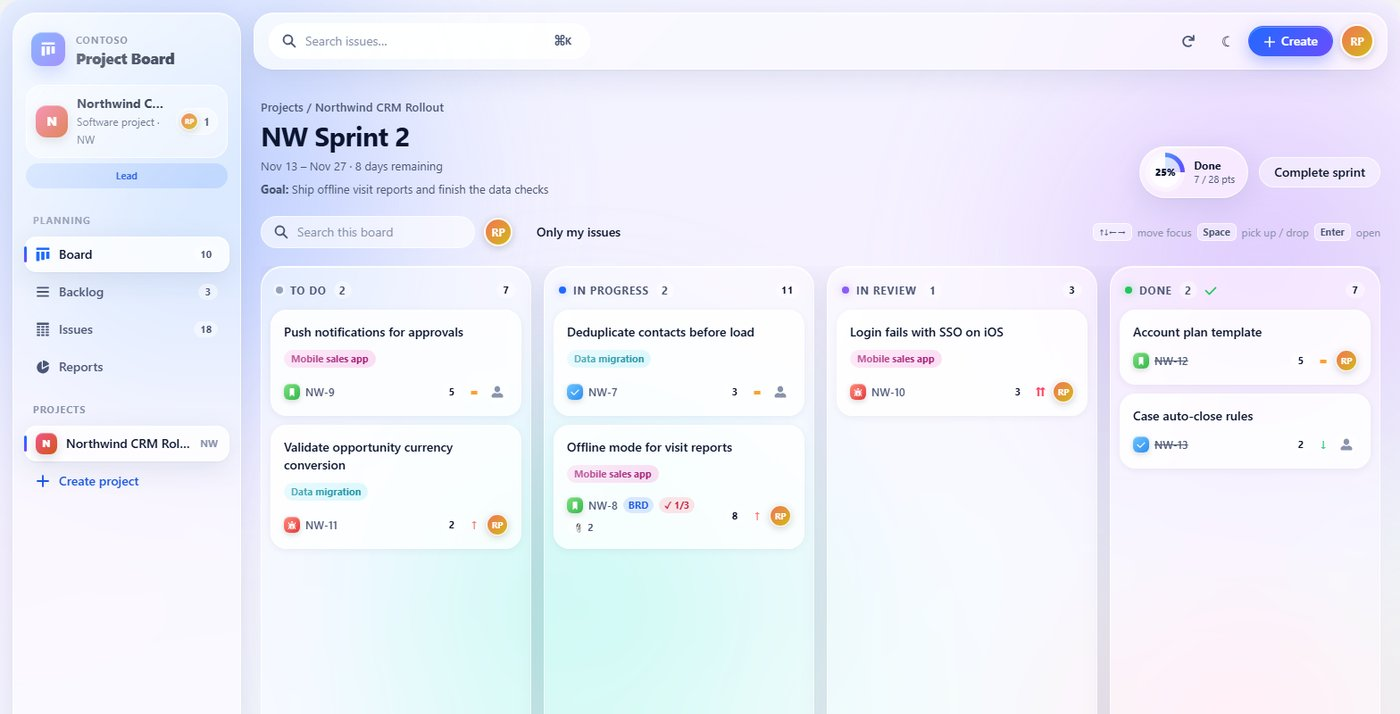
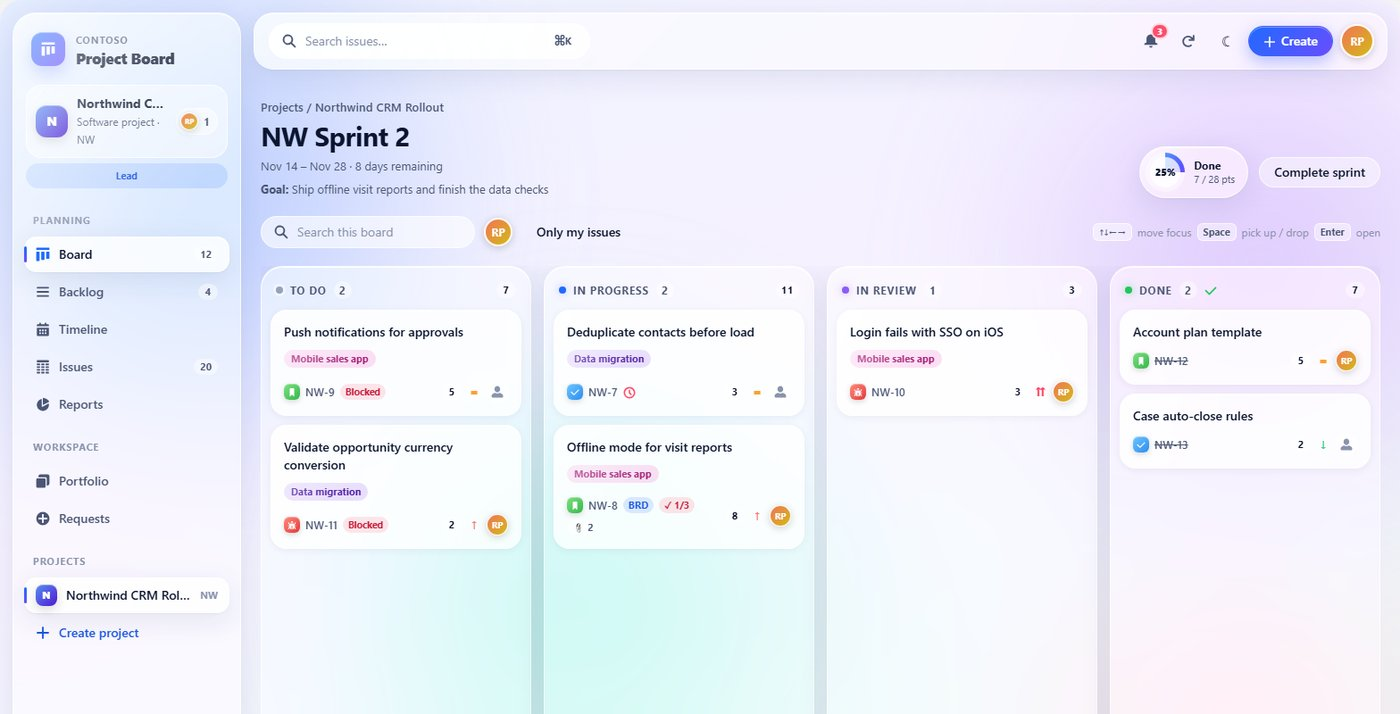
feat(portfolio): Project Board timeline and portfolio on the case study
Screenshots refreshed from the demo org (bell, Blocked and Request
badges); new timeline and portfolio images and a short paragraph on
notifications, dependencies, requests and the portfolio.

diff --git a/salesforce-project-board.html b/salesforce-project-board.html
@@ -1,2 +1,2 @@
 <!DOCTYPE html>
-<html lang="en"><head><meta charset="utf-8"/><meta content="width=device-width,initial-scale=1" name="viewport"/><meta content="#070e19" name="theme-color"/><meta content="Technical case study: Salesforce Project Board by Ricardo Pinheiro. A Scrum-style board built on Salesforce with project membership, a recorded BRD sign-off workflow, UAT test scripts, sprint reports, keyboard-accessible drag and drop and PDF / Word exports, in Apex, Lightning Web Components and Visualforce." name="description"/><meta content="index,follow" name="robots"/><link href="https://ricardo19-deve.github.io/salesforce-project-board.html" rel="canonical"/><meta content="Salesforce Project Board — Engineering Case Study | Ricardo Pinheiro" property="og:title"/><meta content="Scrum board, BRD, UAT test scripts and sprint reports built on Salesforce with Apex, LWC and Visualforce exports." property="og:description"/><meta content="article" property="og:type"/><meta content="https://ricardo19-deve.github.io/salesforce-project-board.html" property="og:url"/><meta content="https://ricardo19-deve.github.io/portrait.jpg" property="og:image"/><title>Salesforce Project Board — Engineering Case Study | Ricardo Pinheiro</title><link href="case-study.css" rel="stylesheet"/></head><body><div aria-hidden="true" class="scrollbar"></div><header class="top wrap"><a class="brand" href="index.html#projects">RP<span>.</span></a><nav aria-label="Page navigation" class="topnav"><a href="index.html#projects">← All projects</a><a href="index.html#certifications">Certifications</a><a href="index.html#contact">Connect</a></nav></header><main class="wrap"><section class="hero fade"><div class="eyebrow">ENGINEERING CASE STUDY / 02</div><h1>Salesforce Project Board<span class="gradient">.</span></h1><p class="lead">From requirement to release, inside Salesforce.</p><div class="status">Open-source module · Apex · Lightning Web Components · Visualforce · Experience Cloud</div></section><section aria-label="Project context" class="two fade"><div class="glass panel"><div class="small-label">THE CONTEXT</div><h2>What I set out to solve.</h2><p>Teams that deliver Salesforce changes often keep requirements in documents, tests in spreadsheets and the backlog in another tool. The links between a requirement, its test evidence and the sprint it shipped in get lost. This module brings them together on the platform the team already works in, published as a neutral open-source reference.</p></div><div class="glass panel"><div class="small-label">THE ENGINEERING QUESTION</div><h2>One place, every artefact linked.</h2><p>How can a team plan sprints, write the business requirements, run user acceptance tests and present what was delivered without leaving Salesforce, with every document traceable to the issue it belongs to?</p></div></section><section aria-label="Interactive architecture" class="architecture fade"><div class="section-heading"><div><div class="small-label">EXPLORE THE SYSTEM</div><h2 class="section-title">Architecture, <span class="gradient">layer by layer.</span></h2></div><p>Select a component to understand its responsibility. Simplified reference architecture, not a production infrastructure diagram.</p></div><div class="arch-layout"><div class="glass arch-map"><div class="arch-step"><span class="step-number">01</span><button aria-pressed="true" class="node active" data-detail="Lightning Web Components render the board, backlog, issue list, reports and the issue workspace. One design system with light and dark themes runs unchanged in a Lightning tab and in a full-screen Experience Cloud (LWR) portal." data-title="Board UI" type="button"><b>Board UI</b><span>Lightning Web Components</span></button></div><div aria-hidden="true" class="connector"></div><div class="arch-step"><span class="step-number">02</span><button aria-pressed="false" class="node" data-detail="Projects and their members, sprints, issues, comments, BRDs with their sign-offs, requirements and test cases. Issue keys come from a locked counter, ranks are fractional so a drag &amp; drop updates one record, and sprint snapshots keep committed versus delivered accurate after carry-over." data-title="Data model" type="button"><b>Data model</b><span>Nine custom objects</span></button></div><div aria-hidden="true" class="connector"></div><div class="arch-step"><span class="step-number">03</span><button aria-pressed="false" class="node" data-detail="Projects and BRDs are private: Apex managed sharing gives each project member access by role (Lead, Member, Viewer). Controllers run every query and write in user mode and check the role first; one small system class handles the shares and recorded sign-off decisions. Updates sent by the browser pass a per-object field whitelist." data-title="Apex services" type="button"><b>Apex services</b><span>Membership · user mode</span></button></div><div aria-hidden="true" class="connector"></div><div class="arch-step"><span class="step-number">04</span><button aria-pressed="false" class="node" data-detail="Visualforce pages render the BRD, the test scripts and the sprint report as PDF or as an editable Word document. The figures match the Reports view, so what is presented is what the board shows." data-title="Document exports" type="button"><b>Document exports</b><span>Visualforce · PDF and Word</span></button></div></div><div aria-live="polite" class="glass panel detail"><div class="number" id="detail-num">LAYER 01 / 04</div><h3 id="detail-title">Board UI</h3><p id="detail-body">Lightning Web Components render the board, backlog, issue list, reports and the issue workspace. One design system with light and dark themes runs unchanged in a Lightning tab and in a full-screen Experience Cloud (LWR) portal.</p><div class="hint">↖ Select any architecture layer to explore</div></div></div></section><section aria-label="Planning and documentation" class="two fade"><div class="glass panel"><div class="small-label">PLANNING</div><h2>Board, backlog, sprints.</h2><p>A Kanban board of the active sprint with drag &amp; drop, quick filters and a progress ring. A backlog with sprint sections, an epics panel and inline quick create; completing a sprint moves open work to the backlog or the next sprint.</p><p>Every issue opens into a workspace with inline editing, comments, field history and tabs for its documents.</p></div><div class="glass panel"><div class="small-label">DOCUMENTATION</div><h2>Requirements that become tests.</h2><p>Each issue can carry a Business Requirements Document with solution design: impacted users and systems, numbered requirements with acceptance criteria, solution screenshots and a recorded sign-off.</p><p>UAT test scripts hold steps, expected and actual results, Pass / Fail / Blocked and evidence files. One click generates a test case for every acceptance criterion of the BRD, without AI.</p></div></section><section aria-label="Reports and design" class="two fade"><div class="glass panel"><div class="small-label">REPORTS &amp; EXPORTS</div><h2>Ready to present.</h2><p>A velocity chart compares committed and delivered points per sprint, and each sprint card shows completion, bugs fixed, carry-over and test pass rate.</p><p>The BRD, the test scripts and the sprint report export to PDF for presenting and to Word for editing, with the company name and logo configurable without code.</p></div><div class="glass panel"><div class="small-label">DESIGN SYSTEM</div><h2>Liquid glass, light and dark.</h2><p>Translucent surfaces, an animated background and spring-based motion, defined once as design tokens and inherited by every component. Motion is reduced automatically when the operating system asks for it.</p><p>The same components render in Lightning Experience and in an Experience Cloud (LWR) site. The chart colours were checked for colour-blind separation and contrast in both themes.</p></div></section><section aria-label="Access, sign-off and accessibility" class="two fade"><div class="glass panel"><div class="small-label">ACCESS &amp; GOVERNANCE</div><h2>Only members see a project.</h2><p>Projects are private. Each one has its own members: Leads manage members and plan, Members edit and can be assignees, Viewers read and export. Access is granted through Apex managed sharing that follows the member list, so removing a person removes their access.</p><p>BRD sign-off is a recorded decision, not typed text. Each role has a named approver who approves, or requests changes with a comment, under their own login. The document is locked while it is out for approval, approvers get a notification, and reopening an approved BRD starts a new version.</p></div><div class="glass panel"><div class="small-label">ACCESSIBILITY</div><h2>Drag and drop, without a mouse.</h2><p>Every card and backlog row can be moved from the keyboard: Space picks it up, the arrow keys carry it, Space drops it and Escape cancels. One tab stop per list keeps navigation short, and each move is announced to screen readers.</p><p>Dialogs keep the focus inside while they are open and return it to the card when they close. The keyboard flow was checked in a real org with automated browser tests.</p></div></section><section aria-label="Screenshots" class="fade"><div class="small-label">SEE IT RUNNING</div><h2>Captured in a Developer Edition org.</h2><p class="shots-note">Fictitious demo data created by the seed script in the repository. Select an image to open it full size.</p><div class="shots"><figure class="shot"><a href="assets/salesforce-project-board/board.jpg" target="_blank" rel="noopener"><img alt="Board of the active sprint with drag &amp; drop, progress ring and BRD, test and file badges" decoding="async" loading="lazy" src="assets/salesforce-project-board/board.jpg"/></a><figcaption>Board: active sprint, progress ring, document badges</figcaption></figure><figure class="shot"><a href="assets/salesforce-project-board/board-dark.jpg" target="_blank" rel="noopener"><img alt="The same board in dark mode" decoding="async" loading="lazy" src="assets/salesforce-project-board/board-dark.jpg"/></a><figcaption>The same board in dark mode</figcaption></figure><figure class="shot"><a href="assets/salesforce-project-board/backlog.jpg" target="_blank" rel="noopener"><img alt="Backlog with sprint sections and an epics panel" decoding="async" loading="lazy" src="assets/salesforce-project-board/backlog.jpg"/></a><figcaption>Backlog: sprints and epics with progress</figcaption></figure><figure class="shot"><a href="assets/salesforce-project-board/keyboard-move.jpg" target="_blank" rel="noopener"><img alt="A card lifted with the keyboard, with the target column highlighted" decoding="async" loading="lazy" src="assets/salesforce-project-board/keyboard-move.jpg"/></a><figcaption>Keyboard move: Space lifts the card, arrows pick the column</figcaption></figure><figure class="shot"><a href="assets/salesforce-project-board/members.jpg" target="_blank" rel="noopener"><img alt="Project members dialog with Lead, Member and Viewer roles" decoding="async" loading="lazy" src="assets/salesforce-project-board/members.jpg"/></a><figcaption>Members and roles: only members see the project</figcaption></figure><figure class="shot"><a href="assets/salesforce-project-board/issue.jpg" target="_blank" rel="noopener"><img alt="Issue workspace with inline editing, comments and tabs for BRD, test scripts and attachments" decoding="async" loading="lazy" src="assets/salesforce-project-board/issue.jpg"/></a><figcaption>Issue workspace: inline editing, comments, document tabs</figcaption></figure><figure class="shot"><a href="assets/salesforce-project-board/brd.jpg" target="_blank" rel="noopener"><img alt="BRD out for approval with the status, the lock banner and the sign-offs waiting for the user" decoding="async" loading="lazy" src="assets/salesforce-project-board/brd.jpg"/></a><figcaption>BRD out for approval: status and lock</figcaption></figure><figure class="shot"><a href="assets/salesforce-project-board/sign-off.jpg" target="_blank" rel="noopener"><img alt="Sign-off rows: one approved with a comment, one pending with Approve and Request changes, one not required" decoding="async" loading="lazy" src="assets/salesforce-project-board/sign-off.jpg"/></a><figcaption>Sign-off: named approvers, recorded decisions</figcaption></figure><figure class="shot"><a href="assets/salesforce-project-board/test-scripts.jpg" target="_blank" rel="noopener"><img alt="Test scripts with steps and Pass, Fail and Blocked results" decoding="async" loading="lazy" src="assets/salesforce-project-board/test-scripts.jpg"/></a><figcaption>Test scripts generated from the BRD</figcaption></figure><figure class="shot"><a href="assets/salesforce-project-board/reports.jpg" target="_blank" rel="noopener"><img alt="Velocity chart of committed versus delivered points and sprint cards" decoding="async" loading="lazy" src="assets/salesforce-project-board/reports.jpg"/></a><figcaption>Reports: velocity and sprint cards</figcaption></figure><figure class="shot"><a href="assets/salesforce-project-board/sprint-report-pdf.jpg" target="_blank" rel="noopener"><img alt="Sprint report exported to PDF" decoding="async" loading="lazy" src="assets/salesforce-project-board/sprint-report-pdf.jpg"/></a><figcaption>Sprint report exported to PDF</figcaption></figure><figure class="shot"><a href="assets/salesforce-project-board/brd-pdf.jpg" target="_blank" rel="noopener"><img alt="BRD exported to PDF with the sign-off table of approvers, decisions and dates" decoding="async" loading="lazy" src="assets/salesforce-project-board/brd-pdf.jpg"/></a><figcaption>BRD PDF with the recorded sign-off</figcaption></figure></div></section><section class="fade"><div class="glass panel"><div class="small-label">ENGINEERING PRACTICES</div><h2>Built to be handed over.</h2><p>Apex tests that run as a user with only the module permission set, and access tests with separate Lead, Member and outsider users. Jest tests for the shared helpers, linting in continuous integration, header comments for future maintainers, a demo data script and documentation of the data model and configuration.</p></div><div class="small-label" style="margin-top:70px">TECHNICAL TOOLKIT</div><div class="tags"><span class="tag">Apex</span><span class="tag">Lightning Web Components</span><span class="tag">Visualforce PDF &amp; Word</span><span class="tag">SOQL user mode</span><span class="tag">Apex managed sharing</span><span class="tag">Custom notifications</span><span class="tag">Keyboard accessibility (ARIA)</span><span class="tag">Custom objects</span><span class="tag">Salesforce Files</span><span class="tag">Experience Cloud (LWR)</span><span class="tag">HTML5 drag &amp; drop</span><span class="tag">CSS design tokens</span><span class="tag">Apex tests</span><span class="tag">Jest</span></div><div class="glass panel"><div class="small-label">CURRENT STATE / NEXT EVIDENCE</div><h2>What the evidence supports.</h2><p>The module is published in the open-source Salesforce CRM Wizards repository and deploys to a Salesforce Developer Edition org. The screenshots above come from such an org with fictitious data.</p></div><div class="links"><a class="linkbtn" href="https://github.com/Ricardo19-Deve/salesforce-crm-wizards/blob/main/docs/project-board.md" rel="noopener noreferrer" target="_blank">View source on GitHub ↗</a><a class="linkbtn" href="https://www.linkedin.com/in/ricardoappinheiro/" rel="noopener noreferrer" target="_blank">Discuss this project ↗</a><a class="linkbtn" href="index.html#projects">Back to portfolio ↗</a></div></section></main><footer class="footer wrap"><span>Ricardo Pinheiro · Open-source engineering case study</span><span>Designed to be explored, not just read.</span></footer><script defer="" src="case-study.js"></script><script type="module" src="./m-analytics-bootstrap.mjs?v=34"></script></body></html>
+<html lang="en"><head><meta charset="utf-8"/><meta content="width=device-width,initial-scale=1" name="viewport"/><meta content="#070e19" name="theme-color"/><meta content="Technical case study: Salesforce Project Board by Ricardo Pinheiro. A Scrum-style board built on Salesforce with project membership, a recorded BRD sign-off workflow, UAT test scripts, sprint reports, keyboard-accessible drag and drop and PDF / Word exports, in Apex, Lightning Web Components and Visualforce." name="description"/><meta content="index,follow" name="robots"/><link href="https://ricardo19-deve.github.io/salesforce-project-board.html" rel="canonical"/><meta content="Salesforce Project Board — Engineering Case Study | Ricardo Pinheiro" property="og:title"/><meta content="Scrum board, BRD, UAT test scripts and sprint reports built on Salesforce with Apex, LWC and Visualforce exports." property="og:description"/><meta content="article" property="og:type"/><meta content="https://ricardo19-deve.github.io/salesforce-project-board.html" property="og:url"/><meta content="https://ricardo19-deve.github.io/portrait.jpg" property="og:image"/><title>Salesforce Project Board — Engineering Case Study | Ricardo Pinheiro</title><link href="case-study.css" rel="stylesheet"/></head><body><div aria-hidden="true" class="scrollbar"></div><header class="top wrap"><a class="brand" href="index.html#projects">RP<span>.</span></a><nav aria-label="Page navigation" class="topnav"><a href="index.html#projects">← All projects</a><a href="index.html#certifications">Certifications</a><a href="index.html#contact">Connect</a></nav></header><main class="wrap"><section class="hero fade"><div class="eyebrow">ENGINEERING CASE STUDY / 02</div><h1>Salesforce Project Board<span class="gradient">.</span></h1><p class="lead">From requirement to release, inside Salesforce.</p><div class="status">Open-source module · Apex · Lightning Web Components · Visualforce · Experience Cloud</div></section><section aria-label="Project context" class="two fade"><div class="glass panel"><div class="small-label">THE CONTEXT</div><h2>What I set out to solve.</h2><p>Teams that deliver Salesforce changes often keep requirements in documents, tests in spreadsheets and the backlog in another tool. The links between a requirement, its test evidence and the sprint it shipped in get lost. This module brings them together on the platform the team already works in, published as a neutral open-source reference.</p></div><div class="glass panel"><div class="small-label">THE ENGINEERING QUESTION</div><h2>One place, every artefact linked.</h2><p>How can a team plan sprints, write the business requirements, run user acceptance tests and present what was delivered without leaving Salesforce, with every document traceable to the issue it belongs to?</p></div></section><section aria-label="Interactive architecture" class="architecture fade"><div class="section-heading"><div><div class="small-label">EXPLORE THE SYSTEM</div><h2 class="section-title">Architecture, <span class="gradient">layer by layer.</span></h2></div><p>Select a component to understand its responsibility. Simplified reference architecture, not a production infrastructure diagram.</p></div><div class="arch-layout"><div class="glass arch-map"><div class="arch-step"><span class="step-number">01</span><button aria-pressed="true" class="node active" data-detail="Lightning Web Components render the board, backlog, issue list, reports and the issue workspace. One design system with light and dark themes runs unchanged in a Lightning tab and in a full-screen Experience Cloud (LWR) portal." data-title="Board UI" type="button"><b>Board UI</b><span>Lightning Web Components</span></button></div><div aria-hidden="true" class="connector"></div><div class="arch-step"><span class="step-number">02</span><button aria-pressed="false" class="node" data-detail="Projects and their members, sprints, issues, comments, BRDs with their sign-offs, requirements and test cases. Issue keys come from a locked counter, ranks are fractional so a drag &amp; drop updates one record, and sprint snapshots keep committed versus delivered accurate after carry-over." data-title="Data model" type="button"><b>Data model</b><span>Nine custom objects</span></button></div><div aria-hidden="true" class="connector"></div><div class="arch-step"><span class="step-number">03</span><button aria-pressed="false" class="node" data-detail="Projects and BRDs are private: Apex managed sharing gives each project member access by role (Lead, Member, Viewer). Controllers run every query and write in user mode and check the role first; one small system class handles the shares and recorded sign-off decisions. Updates sent by the browser pass a per-object field whitelist." data-title="Apex services" type="button"><b>Apex services</b><span>Membership · user mode</span></button></div><div aria-hidden="true" class="connector"></div><div class="arch-step"><span class="step-number">04</span><button aria-pressed="false" class="node" data-detail="Visualforce pages render the BRD, the test scripts and the sprint report as PDF or as an editable Word document. The figures match the Reports view, so what is presented is what the board shows." data-title="Document exports" type="button"><b>Document exports</b><span>Visualforce · PDF and Word</span></button></div></div><div aria-live="polite" class="glass panel detail"><div class="number" id="detail-num">LAYER 01 / 04</div><h3 id="detail-title">Board UI</h3><p id="detail-body">Lightning Web Components render the board, backlog, issue list, reports and the issue workspace. One design system with light and dark themes runs unchanged in a Lightning tab and in a full-screen Experience Cloud (LWR) portal.</p><div class="hint">↖ Select any architecture layer to explore</div></div></div></section><section aria-label="Planning and documentation" class="two fade"><div class="glass panel"><div class="small-label">PLANNING</div><h2>Board, backlog, sprints.</h2><p>A Kanban board of the active sprint with drag &amp; drop, quick filters and a progress ring. A backlog with sprint sections, an epics panel and inline quick create; completing a sprint moves open work to the backlog or the next sprint.</p><p>Every issue opens into a workspace with inline editing, comments, field history and tabs for its documents.</p><p>A timeline shows start and due dates, milestones and dependencies, and flags work that starts before what it waits for is done. A portfolio rates every project On track, At risk or Off track, with the reasons in words. Followers, @mentions and an inbox keep people informed, and a request form lets other teams ask for work without joining the project.</p></div><div class="glass panel"><div class="small-label">DOCUMENTATION</div><h2>Requirements that become tests.</h2><p>Each issue can carry a Business Requirements Document with solution design: impacted users and systems, numbered requirements with acceptance criteria, solution screenshots and a recorded sign-off.</p><p>UAT test scripts hold steps, expected and actual results, Pass / Fail / Blocked and evidence files. One click generates a test case for every acceptance criterion of the BRD, without AI.</p></div></section><section aria-label="Reports and design" class="two fade"><div class="glass panel"><div class="small-label">REPORTS &amp; EXPORTS</div><h2>Ready to present.</h2><p>A velocity chart compares committed and delivered points per sprint, and each sprint card shows completion, bugs fixed, carry-over and test pass rate.</p><p>The BRD, the test scripts and the sprint report export to PDF for presenting and to Word for editing, with the company name and logo configurable without code.</p></div><div class="glass panel"><div class="small-label">DESIGN SYSTEM</div><h2>Liquid glass, light and dark.</h2><p>Translucent surfaces, an animated background and spring-based motion, defined once as design tokens and inherited by every component. Motion is reduced automatically when the operating system asks for it.</p><p>The same components render in Lightning Experience and in an Experience Cloud (LWR) site. The chart colours were checked for colour-blind separation and contrast in both themes.</p></div></section><section aria-label="Access, sign-off and accessibility" class="two fade"><div class="glass panel"><div class="small-label">ACCESS &amp; GOVERNANCE</div><h2>Only members see a project.</h2><p>Projects are private. Each one has its own members: Leads manage members and plan, Members edit and can be assignees, Viewers read and export. Access is granted through Apex managed sharing that follows the member list, so removing a person removes their access.</p><p>BRD sign-off is a recorded decision, not typed text. Each role has a named approver who approves, or requests changes with a comment, under their own login. The document is locked while it is out for approval, approvers get a notification, and reopening an approved BRD starts a new version.</p></div><div class="glass panel"><div class="small-label">ACCESSIBILITY</div><h2>Drag and drop, without a mouse.</h2><p>Every card and backlog row can be moved from the keyboard: Space picks it up, the arrow keys carry it, Space drops it and Escape cancels. One tab stop per list keeps navigation short, and each move is announced to screen readers.</p><p>Dialogs keep the focus inside while they are open and return it to the card when they close. The keyboard flow was checked in a real org with automated browser tests.</p></div></section><section aria-label="Screenshots" class="fade"><div class="small-label">SEE IT RUNNING</div><h2>Captured in a Developer Edition org.</h2><p class="shots-note">Fictitious demo data created by the seed script in the repository. Select an image to open it full size.</p><div class="shots"><figure class="shot"><a href="assets/salesforce-project-board/board.jpg" target="_blank" rel="noopener"><img alt="Board of the active sprint with drag &amp; drop, progress ring and BRD, test and file badges" decoding="async" loading="lazy" src="assets/salesforce-project-board/board.jpg"/></a><figcaption>Board: active sprint, progress ring, document badges</figcaption></figure><figure class="shot"><a href="assets/salesforce-project-board/board-dark.jpg" target="_blank" rel="noopener"><img alt="The same board in dark mode" decoding="async" loading="lazy" src="assets/salesforce-project-board/board-dark.jpg"/></a><figcaption>The same board in dark mode</figcaption></figure><figure class="shot"><a href="assets/salesforce-project-board/backlog.jpg" target="_blank" rel="noopener"><img alt="Backlog with sprint sections and an epics panel" decoding="async" loading="lazy" src="assets/salesforce-project-board/backlog.jpg"/></a><figcaption>Backlog: sprints and epics with progress</figcaption></figure><figure class="shot"><a href="assets/salesforce-project-board/timeline.jpg" target="_blank" rel="noopener"><img alt="Timeline with bars by epic, a line for today and dependency arrows, one of them red for a conflict" decoding="async" loading="lazy" src="assets/salesforce-project-board/timeline.jpg"/></a><figcaption>Timeline: dates, milestones and dependencies</figcaption></figure><figure class="shot"><a href="assets/salesforce-project-board/portfolio.jpg" target="_blank" rel="noopener"><img alt="Portfolio card with an At risk status, its reasons, sprint progress against time and the next milestone" decoding="async" loading="lazy" src="assets/salesforce-project-board/portfolio.jpg"/></a><figcaption>Portfolio: health of every project, with reasons</figcaption></figure><figure class="shot"><a href="assets/salesforce-project-board/keyboard-move.jpg" target="_blank" rel="noopener"><img alt="A card lifted with the keyboard, with the target column highlighted" decoding="async" loading="lazy" src="assets/salesforce-project-board/keyboard-move.jpg"/></a><figcaption>Keyboard move: Space lifts the card, arrows pick the column</figcaption></figure><figure class="shot"><a href="assets/salesforce-project-board/members.jpg" target="_blank" rel="noopener"><img alt="Project members dialog with Lead, Member and Viewer roles" decoding="async" loading="lazy" src="assets/salesforce-project-board/members.jpg"/></a><figcaption>Members and roles: only members see the project</figcaption></figure><figure class="shot"><a href="assets/salesforce-project-board/issue.jpg" target="_blank" rel="noopener"><img alt="Issue workspace with inline editing, comments and tabs for BRD, test scripts and attachments" decoding="async" loading="lazy" src="assets/salesforce-project-board/issue.jpg"/></a><figcaption>Issue workspace: inline editing, comments, document tabs</figcaption></figure><figure class="shot"><a href="assets/salesforce-project-board/brd.jpg" target="_blank" rel="noopener"><img alt="BRD out for approval with the status, the lock banner and the sign-offs waiting for the user" decoding="async" loading="lazy" src="assets/salesforce-project-board/brd.jpg"/></a><figcaption>BRD out for approval: status and lock</figcaption></figure><figure class="shot"><a href="assets/salesforce-project-board/sign-off.jpg" target="_blank" rel="noopener"><img alt="Sign-off rows: one approved with a comment, one pending with Approve and Request changes, one not required" decoding="async" loading="lazy" src="assets/salesforce-project-board/sign-off.jpg"/></a><figcaption>Sign-off: named approvers, recorded decisions</figcaption></figure><figure class="shot"><a href="assets/salesforce-project-board/test-scripts.jpg" target="_blank" rel="noopener"><img alt="Test scripts with steps and Pass, Fail and Blocked results" decoding="async" loading="lazy" src="assets/salesforce-project-board/test-scripts.jpg"/></a><figcaption>Test scripts generated from the BRD</figcaption></figure><figure class="shot"><a href="assets/salesforce-project-board/reports.jpg" target="_blank" rel="noopener"><img alt="Velocity chart of committed versus delivered points and sprint cards" decoding="async" loading="lazy" src="assets/salesforce-project-board/reports.jpg"/></a><figcaption>Reports: velocity and sprint cards</figcaption></figure><figure class="shot"><a href="assets/salesforce-project-board/sprint-report-pdf.jpg" target="_blank" rel="noopener"><img alt="Sprint report exported to PDF" decoding="async" loading="lazy" src="assets/salesforce-project-board/sprint-report-pdf.jpg"/></a><figcaption>Sprint report exported to PDF</figcaption></figure><figure class="shot"><a href="assets/salesforce-project-board/brd-pdf.jpg" target="_blank" rel="noopener"><img alt="BRD exported to PDF with the sign-off table of approvers, decisions and dates" decoding="async" loading="lazy" src="assets/salesforce-project-board/brd-pdf.jpg"/></a><figcaption>BRD PDF with the recorded sign-off</figcaption></figure></div></section><section class="fade"><div class="glass panel"><div class="small-label">ENGINEERING PRACTICES</div><h2>Built to be handed over.</h2><p>Apex tests that run as a user with only the module permission set, and access tests with separate Lead, Member and outsider users. Jest tests for the shared helpers, linting in continuous integration, header comments for future maintainers, a demo data script and documentation of the data model and configuration.</p></div><div class="small-label" style="margin-top:70px">TECHNICAL TOOLKIT</div><div class="tags"><span class="tag">Apex</span><span class="tag">Lightning Web Components</span><span class="tag">Visualforce PDF &amp; Word</span><span class="tag">SOQL user mode</span><span class="tag">Apex managed sharing</span><span class="tag">Custom notifications</span><span class="tag">Keyboard accessibility (ARIA)</span><span class="tag">Custom objects</span><span class="tag">Salesforce Files</span><span class="tag">Experience Cloud (LWR)</span><span class="tag">HTML5 drag &amp; drop</span><span class="tag">CSS design tokens</span><span class="tag">Apex tests</span><span class="tag">Jest</span></div><div class="glass panel"><div class="small-label">CURRENT STATE / NEXT EVIDENCE</div><h2>What the evidence supports.</h2><p>The module is published in the open-source Salesforce CRM Wizards repository and deploys to a Salesforce Developer Edition org. The screenshots above come from such an org with fictitious data.</p></div><div class="links"><a class="linkbtn" href="https://github.com/Ricardo19-Deve/salesforce-crm-wizards/blob/main/docs/project-board.md" rel="noopener noreferrer" target="_blank">View source on GitHub ↗</a><a class="linkbtn" href="https://www.linkedin.com/in/ricardoappinheiro/" rel="noopener noreferrer" target="_blank">Discuss this project ↗</a><a class="linkbtn" href="index.html#projects">Back to portfolio ↗</a></div></section></main><footer class="footer wrap"><span>Ricardo Pinheiro · Open-source engineering case study</span><span>Designed to be explored, not just read.</span></footer><script defer="" src="case-study.js"></script><script type="module" src="./m-analytics-bootstrap.mjs?v=34"></script></body></html>
